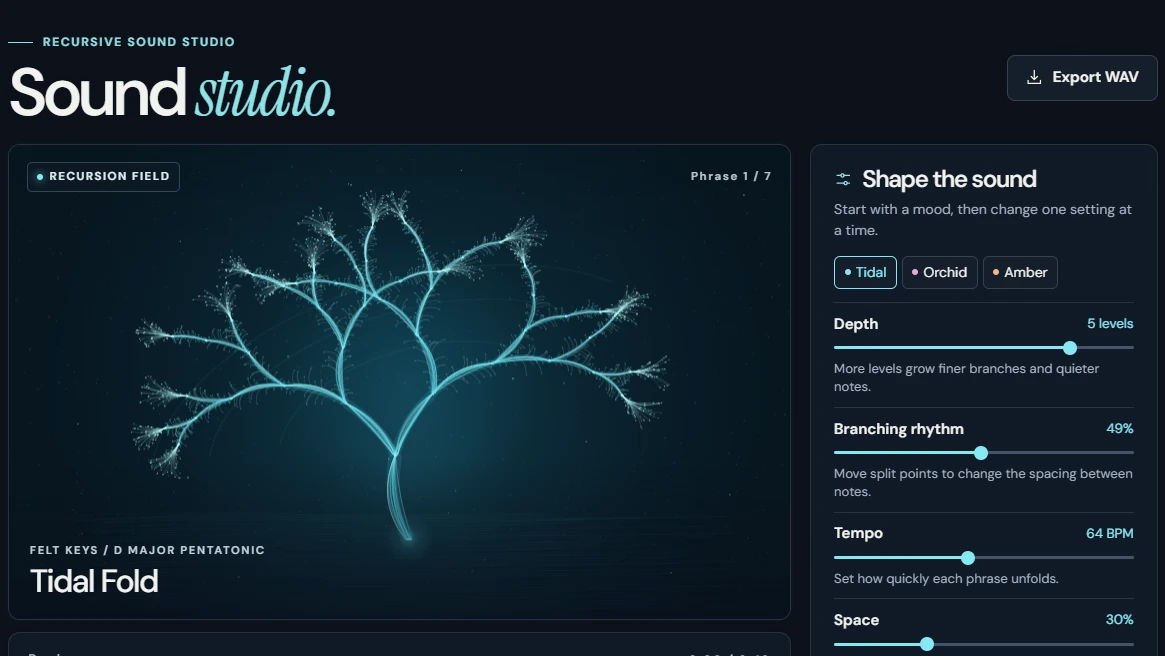
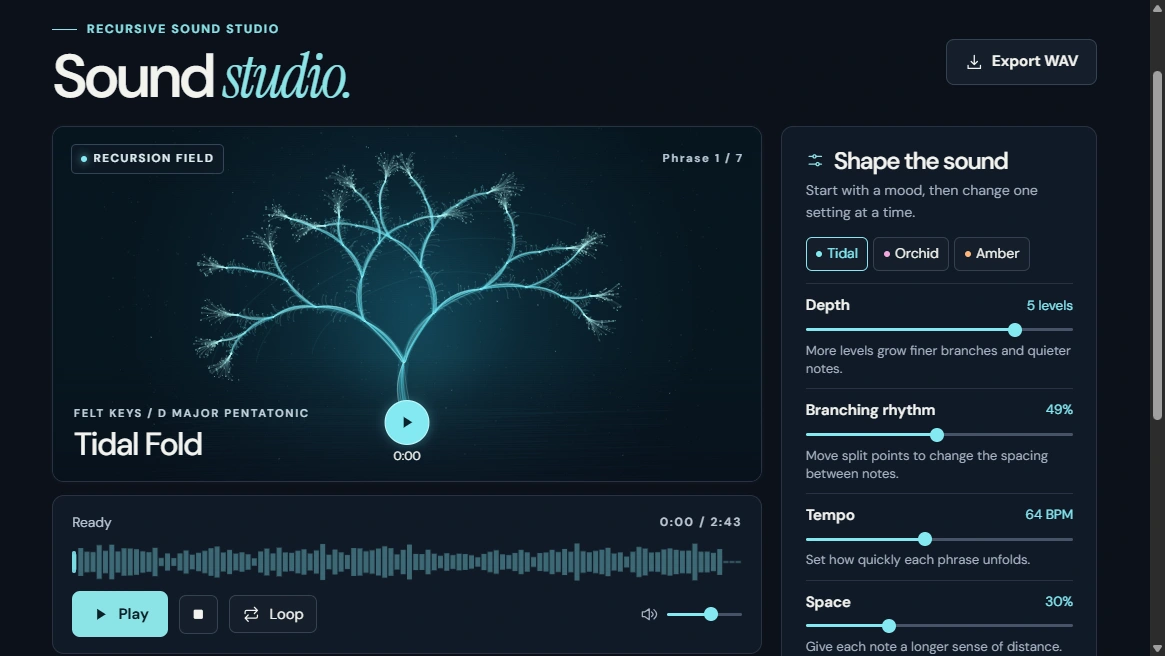
Keep studio playback in view on first entry

diff --git a/src/app.js b/src/app.js
@@ -193,8 +193,12 @@ function drawAt(time, force = false) {
         .join(" › ") +
       (last.leaf ? " › leaf" : "")
     : field.phrase.notes.length + " sounding nodes · each split places a note";
-  byId("trace").textContent = trace;
-  byId("elapsed").textContent = clock(time);
+  if (byId("trace").textContent !== trace) byId("trace").textContent = trace;
+  const displayTime = clock(time);
+  if (byId("elapsed").textContent !== displayTime) {
+    byId("elapsed").textContent = displayTime;
+    byId("field-clock").textContent = displayTime;
+  }
   byId("seek").value = time;
   byId("seek").setAttribute(
     "aria-valuetext",
@@ -218,7 +222,16 @@ function animate(now) {
   }
   if (player.active && previewing && player.position() >= 16) stop();
 }
+byId("field-play").onclick = () => byId("play").click();
 function resetButtons() {
+  const fieldPlay = byId("field-play");
+  fieldPlay.setAttribute(
+    "aria-label",
+    playingIntent ? "Pause composition" : "Play composition",
+  );
+  fieldPlay
+    .querySelector("use")
+    .setAttribute("href", playingIntent ? "#i-pause" : "#i-play");
   labelButton(
     byId("play"),
     playingIntent ? "pause" : "play",

diff --git a/style.css b/style.css
@@ -418,6 +418,45 @@ h2 em {
   font-size: 0.7rem;
   letter-spacing: 0.15em;
 }
+.field-transport {
+  position: absolute;
+  bottom: 1rem;
+  left: 50%;
+  transform: translateX(-50%);
+  z-index: 3;
+  display: flex;
+  align-items: center;
+  flex-direction: column;
+  gap: 2px;
+  pointer-events: none;
+}
+.field-transport button {
+  pointer-events: auto;
+  width: 45px;
+  height: 45px;
+  border-radius: 50%;
+  display: grid;
+  place-items: center;
+  background: var(--accent);
+  color: #09222b;
+  border: 1px solid #dbffffa6;
+  box-shadow: 0 0 calc(12px + 32px * var(--energy, 0)) #76dfef55;
+}
+.field-transport span {
+  font-size: 0.75rem;
+  font-variant-numeric: tabular-nums;
+}
+.field-panel canvas {
+  max-height: 54svh;
+}
+@media (max-width: 680px) {
+  .field-transport {
+    left: auto;
+    right: 1rem;
+    transform: none;
+    bottom: 0.65rem;
+  }
+}
 .stage-bottom strong,
 .field-name h2 {
   font-weight: 500;

diff --git a/index.html b/index.html
@@ -382,6 +382,14 @@
                 role="img"
                 aria-label="Recursive musical tree"
               ></canvas>
+              <div class="field-transport">
+                <button id="field-play" aria-label="Play composition">
+                  <svg class="icon" aria-hidden="true">
+                    <use href="#i-play" />
+                  </svg>
+                </button>
+                <span id="field-clock" aria-hidden="true">0:00</span>
+              </div>
               <div class="field-name">
                 <span class="mono" id="voice-name"></span>
                 <h2 id="mood-name"></h2>

diff --git a/src/player.js b/src/player.js
@@ -5,7 +5,6 @@ export class Player {
     this.level = 0.6;
     this.loop = false;
     this.offset = 0;
-    this.revision = 0;
   }
   unlock() {
     if (!this.context) {

diff --git a/AI_LOGS/REVIEW_NOTES.md b/AI_LOGS/REVIEW_NOTES.md
@@ -199,5 +199,16 @@ Optional polish (only before the 21:00 freeze, and only after #60):
 
 **Verified.** #62 is done: 7 webps (3 scenes + amber/orchid studies + tidal detail + a studio UI capture), and every referenced asset exists. All `src/*.js` pass `node --check`, and every `byId()` target exists in `index.html`. The tapered fan plus feather barbs make the tree read clearly as a recursive branching structure now (scene-1 is excellent). Builder: tick #62.
 
-- [ ] **67. P0 usability: the Play button is below the fold in the studio.** In `assets/studio.webp` (≈1165×656 viewport) you can see the title, Export WAV, the canvas and the sliders, but **no Play button**: the transport sits under the canvas, off-screen. A first-time judge lands in the Studio and has nothing obvious to press. Fix one of these: (a) put a large circular Play/Pause button overlaid at the bottom-centre of the Recursion Field (with the elapsed time), keeping the full transport below; or (b) move Play/Stop into the studio header next to Export WAV; or (c) reduce the field height (`max-height: 58vh`) so the transport fits on a 768-px-tall laptop screen. (a) is the most elegant, and it can carry the `--energy` glow.
-- [ ] **68. Commit and push.** Still only 2 commits; ~15 files have been changed since `51055a7`, including all the new art. Push now; Pages deploys from `main`.
+- [x] **67. P0 usability: the Play button is below the fold in the studio.** In `assets/studio.webp` (≈1165×656 viewport) you can see the title, Export WAV, the canvas and the sliders, but **no Play button**: the transport sits under the canvas, off-screen. A first-time judge lands in the Studio and has nothing obvious to press. Fix one of these: (a) put a large circular Play/Pause button overlaid at the bottom-centre of the Recursion Field (with the elapsed time), keeping the full transport below; or (b) move Play/Stop into the studio header next to Export WAV; or (c) reduce the field height (`max-height: 58vh`) so the transport fits on a 768-px-tall laptop screen. (a) is the most elegant, and it can carry the `--energy` glow.  _Builder: A field-overlay Play/Pause and elapsed clock now fit within a 1165 x 656 viewport before scrolling; the studio capture was refreshed._
+- [x] **68. Commit and push.** Still only 2 commits; ~15 files have been changed since `51055a7`, including all the new art. Push now; Pages deploys from `main`.  _Builder: Checkpoint 40ea794 was pushed with all seven WebP captures and the formatted source._
+
+---
+
+## Round 17 (19:05): verified
+
+**#67 fixed. Builder: tick it.** The circular Play/Pause button plus clock overlaid on the Recursion Field (`#field-play`, `#field-clock`) mirrors the main transport, updates its aria-label and icon, and avoids redundant DOM writes. The code is now consistently formatted too. Syntax and id cross-checks pass.
+
+Remaining before freeze (21:00):
+- [ ] **69.** Make sure `--energy` also drives a soft glow on `#field-play` while playing (cheap, very "alive").
+- [ ] **65.** Final live smoke test (Chrome + Firefox, 360 px, reduced motion, play the downloaded WAV) → write results under #65.
+- [ ] **66.** Final Codex log export as the last commit; the reviewer adds `claude-review-session.md`.
